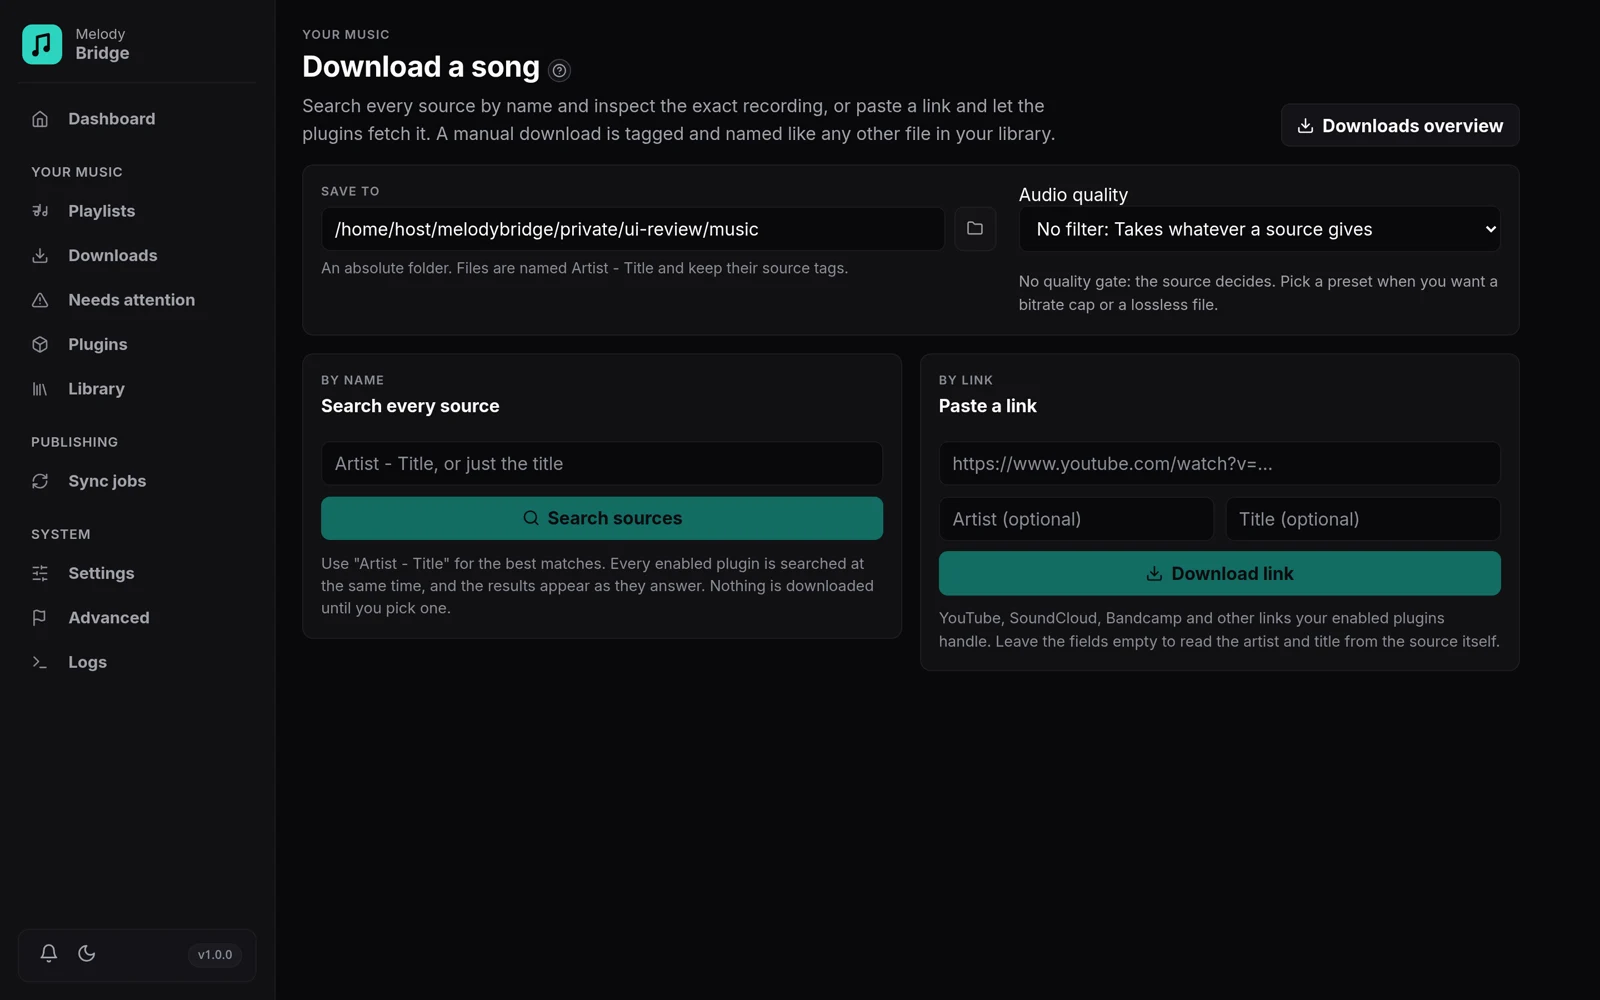
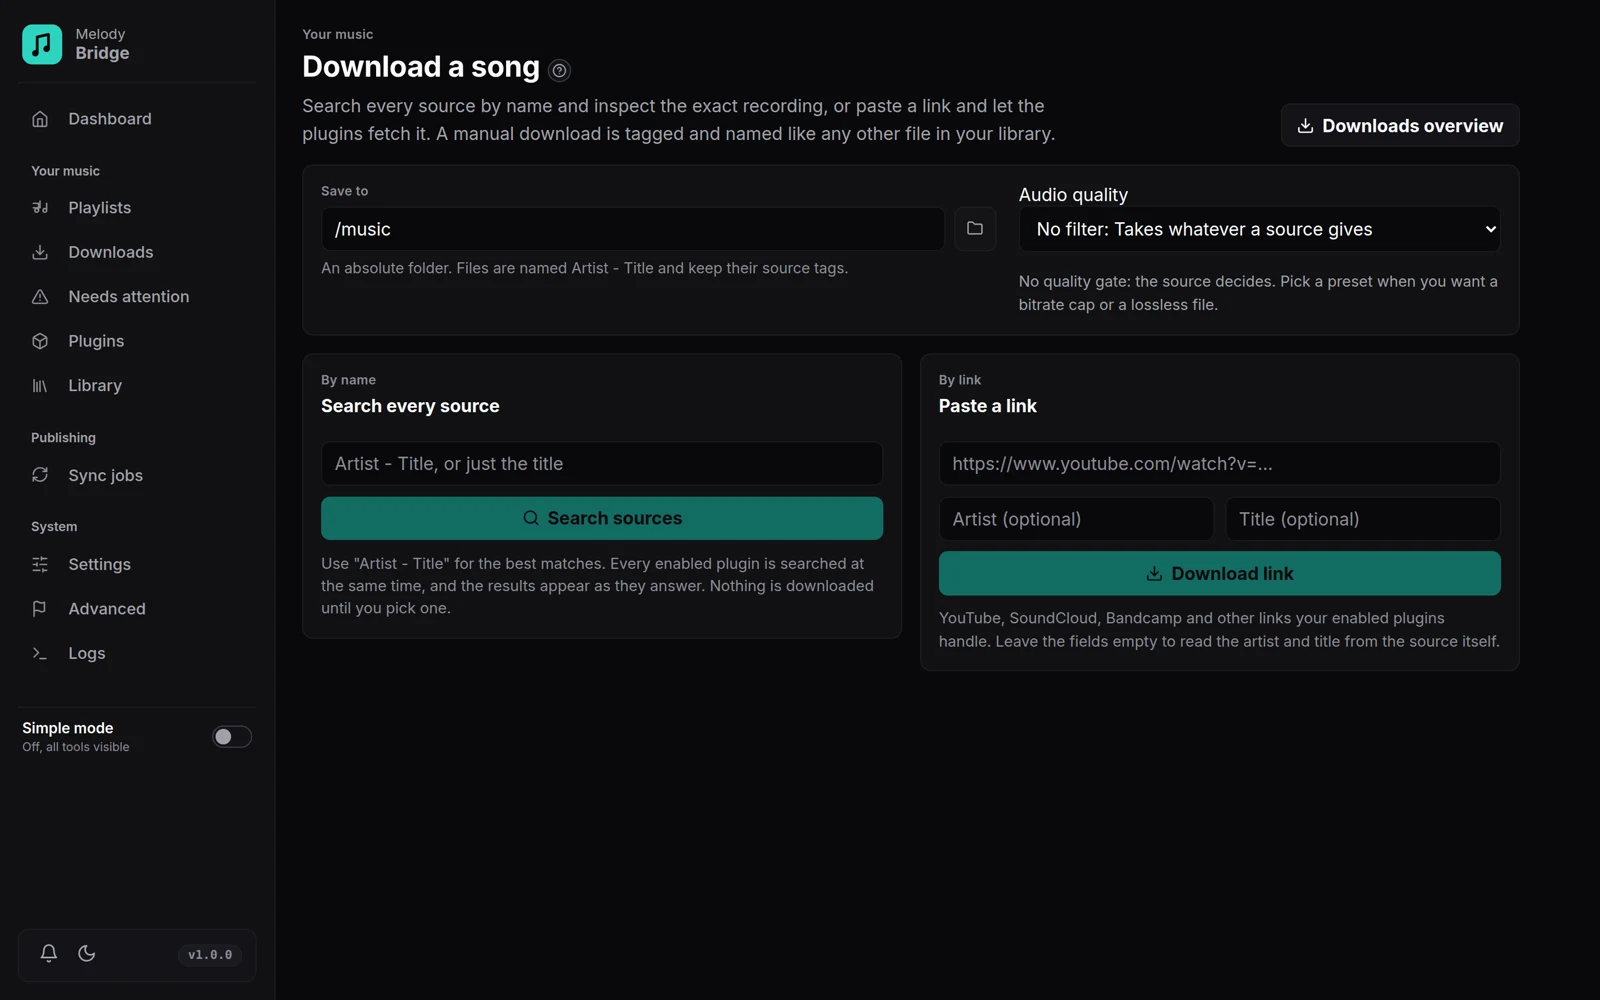
docs: refresh the UI guide and screenshots
Cover the simple-mode dashboard and attention summary, the background repair run, and the new plugin routing panel.

diff --git a/docs/reference.md b/docs/reference.md
@@ -179,11 +179,12 @@ stalls a download or a scan.
 
 App version and **Check for updates**, a button to replay the guided tour, the
 interface mode and the appearance section. **Interface** switches between
-**Simple**, which keeps the sidebar to playlists, downloads, attention, sources
-and settings, and **Advanced**, which also shows the library, sync jobs,
-diagnostics and logs. A first install asks for the mode; the same switch sits at
-the bottom of the sidebar. **Theme** offers Light, Dark or Auto: Auto follows your
-device and switches with it. The accent picker below it colors tabs, buttons and
+**Simple**, which keeps the sidebar to playlists, downloads, attention, sources,
+sync jobs and settings, and **Advanced**, which also shows the library,
+diagnostics and logs. Simple also trims the dashboard, attention and plugin
+pages to their everyday controls. A first install asks for the mode; the same switch sits at the bottom of the
+sidebar. **Theme** offers Light, Dark or Auto: Auto follows your device and
+switches with it. The accent picker below it colors tabs, buttons and
 highlights, the guided tour included. Both are stored in this browser only.
 
 MelodyBridge checks GitHub once a day for a newer release and adds a notification
@@ -368,21 +369,27 @@ including `archive: <name>` chips for archive copies.
 
 ## The Needs attention page
 
-<img src="/screens/attention.webp" alt="Needs attention page with the automatic repair summary and grouped problems" width="800">
+<img src="/screens/attention.webp" alt="Needs attention page with the filter bar, the repair summary and the failed group" width="800">
 
 **Needs attention** in the sidebar collects every track and playlist that still
 wants a decision, grouped by the kind of problem rather than by playlist. The
-metric row at the top jumps to a group and marks it; the other groups stay on
-the page when you keep scrolling. A group with more than eight rows shows the
-first eight and a **Show all** button.
+metric row is the filter bar. **All** shows only the categories; pick
+**Failed**, **Reviews**, **Hardlinks**, **Archives** or **Playlists** to see that
+group alone. A group with more than eight rows shows the first eight and a
+**Show all** button.
 
 The page opens in **Automatic** mode. The **Fix what can be fixed** card says
 what the fixer will do, for example *retry 9 downloads, keep 2 length-reviewed
 files, retry 2 quality reviews, recheck 1 unverified file, hardlink 2
 duplicates, rebuild 2 archive copies and re-sync 1 playlist*. **Fix all**
 applies the matching repair to every group. Each group also has its own
-**Fix all** button. A progress bar and a **Stop** button stay visible while the
-work runs, and the page keeps responding.
+**Fix all** button. The repair runs as a background job: leave the page and it
+keeps going, and the Downloads page shows it in the active runs list with its
+queue count and ETA. A progress bar and a **Stop** button stay visible while the
+work runs.
+
+Simple mode shows one summary card with the same **Fix all** button and a note
+that the per-track controls live in Advanced mode.
 
 The mapping is deliberate: failed downloads retry through the normal waterfall,
 length reviews keep the playable file, quality reviews fetch a new copy,
@@ -466,32 +473,33 @@ own stream, then tags and verifies the file.
 
 ## The Plugins page
 
-<img src="/screens/plugins.webp" alt="Plugins page with grouped setup cards and the optional source order collapsed" width="800">
+<img src="/screens/plugins.webp" alt="Plugins page with compact source cards and routing kept in an advanced panel" width="800">
 
 Providers search for your tracks and plugins download them. The page has two
 jobs: set a source up, and decide which source is tried first.
 
-The **Source order and quality** card is collapsed by default. Open it only
-when you want to change the order: use the arrows to move an enabled source up
-or down. The order here is the whole story for the **No filter** quality. When
-a playlist asks for a specific quality, MelodyBridge first picks the plugins
-that can really deliver it (their declared capabilities decide) and this order
-breaks ties between plugins of the same kind. Pick a preset in **Preview
-quality** to see that capability order and which sources it skips; **No
-filter** keeps the preview out of the way because it is the same as the list
-above. The yt-dlp version and update action live in the same section.
+**Routing and tools** opens the advanced panel only when you need it. It holds
+the source order, the quality preview, the yt-dlp version and update action, and
+the search routing map. The order is the whole story for the **No filter**
+quality. When a playlist asks for a specific quality, MelodyBridge first picks
+the plugins that can really deliver it (their declared capabilities decide) and
+this order breaks ties between plugins of the same kind. Pick a preset in
+**Preview quality** to see that capability order and which sources it skips;
+**No filter** keeps the preview out of the way because it is the same as the
+list above.
 
-The setup cards below are split into **Your subscriptions** and **Free and
-community sources**. Qobuz, Deezer and Tidal each get an account card
-with **Account and settings**. Everything else needs no subscription; a
-companion tool or container (yt-dlp, slskd, FlareSolverr for Lucida) is named on
-the card. The search box and the **All**, **Accounts**, **Free** and
-**Problems** filters narrow the cards, and the count says how many each filter
-would show. **Problems** includes unavailable sources and stored logins that
-stopped working.
+The setup cards are split into **Your subscriptions** and **Free and community
+sources**. Qobuz, Deezer and Tidal each get an account card with **Account and
+settings**. Everything else needs no subscription; a companion tool or container
+(yt-dlp, slskd, FlareSolverr for Lucida) is named on the card. The search box and
+the **All**, **Accounts**, **Free** and **Problems** filters narrow the cards,
+and the count says how many each filter would show. **Problems** includes
+unavailable sources and stored logins that stopped working. Simple mode hides
+the filters and the routing panel, uses a single compact source list, and keeps
+only the enable toggle and the setup row.
 
-The **Search routing** card at the bottom of the page is collapsed by default.
-Open it to see where each source gets its track. A provider row names the data
+The **Search routing** panel inside **Routing and tools** shows where each
+source gets its track. A provider row names the data
 it reads (ISRC, title and artist) and the source cards it can search. Each
 provider carries a tier: **official**, **ripper**, **unofficial** or **self**.
 When two providers target the same source, the card marks the one the router

diff --git a/docs/concepts.md b/docs/concepts.md
@@ -8,11 +8,14 @@ moving parts.
 ## Simple and advanced mode
 
 A first install asks how you want to use the app. **Simple** keeps the sidebar
-to the everyday path: playlists, downloads, attention, sources and settings. The
-setup checklist has two steps and the publishing tools stay out of the way.
-**Advanced** shows the library, sync jobs, diagnostics and every setting.
+to the everyday path: playlists, downloads, attention, sources, sync jobs and
+settings. The setup checklist has two steps and the publishing tools stay out of
+the way. Its dashboard keeps the library counters and playlists, the attention
+page becomes one summary and one fix button, and the plugins page becomes a
+single compact source list. **Advanced** shows the library, diagnostics, logs and
+every setting.
 
-The choice is a starting point, not a lock. Switch any time from the mode button
+The choice is a starting point, not a lock. Switch any time from the mode switch
 at the bottom of the sidebar or from Settings, About. Direct links to a hidden
 page still work, so a bookmark or an existing link never breaks.
 
@@ -90,8 +93,8 @@ hands back whatever the source serves. Two things use that list:
 
 A source does not have to know how to search. A **search provider** turns a
 track query into a download URL, and the source only downloads that URL. The
-Plugins page has a **Search routing** card at the bottom, collapsed by default,
-that shows every provider, the sources it can search, and the data it reads.
+**Routing and tools** panel on the Plugins page shows the search routing map:
+every provider, the sources it can search, and the data it reads.
 
 The built-in Tidal ISRC searcher is the example. It asks Tidal for the ISRC
 first, accepts an exact code as the recording even when the title is spelled
@@ -201,7 +204,7 @@ matching cannot be perfect on sources that carry no ISRC and no trustworthy
 artist name; the picker is the honest way out of that. The same picker opens
 from **Download a song**, where there is no existing row to replace.
 
-<img src="/screens/plugins.webp" alt="Plugins page with grouped setup cards and the optional source order collapsed" width="800">
+<img src="/screens/plugins.webp" alt="Plugins page with compact source cards and routing kept in an advanced panel" width="800">
 
 ### Cover art and lyrics
 
@@ -490,7 +493,10 @@ not attention.
 
 The page is a queue, not a log. It opens in **Automatic** mode: the repair card
 summarizes the per-group actions, **Fix all** applies them in one run, and a
-progress bar with **Stop** keeps the page responsive. The mapping is deliberately
+progress bar with **Stop** keeps the page responsive. The filters show one
+category at a time instead of one long scroll. The repair runs in the
+background, so navigating away does not stop it; the Downloads page shows the
+job with its queue and ETA. The mapping is deliberately
 different per group: retry for failed downloads and missing files, keep for
 length reviews, retry for quality reviews, hardlink for duplicates, rebuild for
 archive problems, re-run the audio check for unverified files and a re-sync for

diff --git a/docs/quickstart.md b/docs/quickstart.md
@@ -33,10 +33,10 @@ MelodyBridge downloads.
 ## Your first download
 
 On the first start MelodyBridge asks whether you want the simple or the advanced
-interface. Simple keeps the app to playlists and downloads and gives you a
-two-step checklist. Advanced exposes the library, sync jobs, diagnostics and
-every setting. You can switch at any time from the bottom of the sidebar or from
-Settings, About.
+interface. Simple keeps the app to playlists, downloads, attention, sources and
+a basic sync jobs page, and gives you a two-step checklist. Advanced exposes the
+library, diagnostics and every setting. You can switch at any time from the
+switch at the bottom of the sidebar or from Settings, About.
 
 <div class="steps">
 <div class="step" data-step="1">
